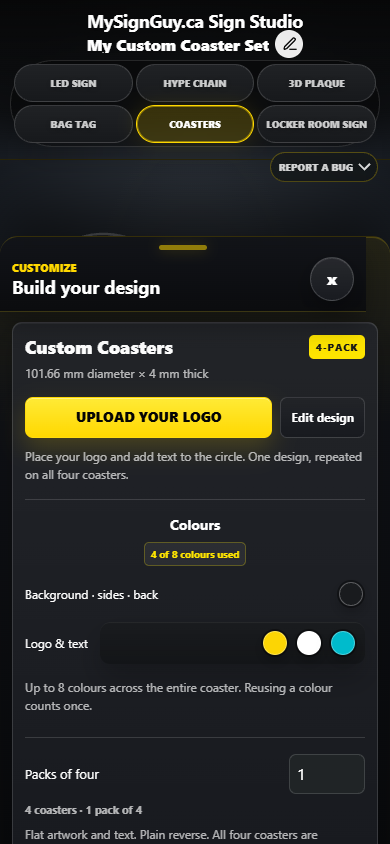
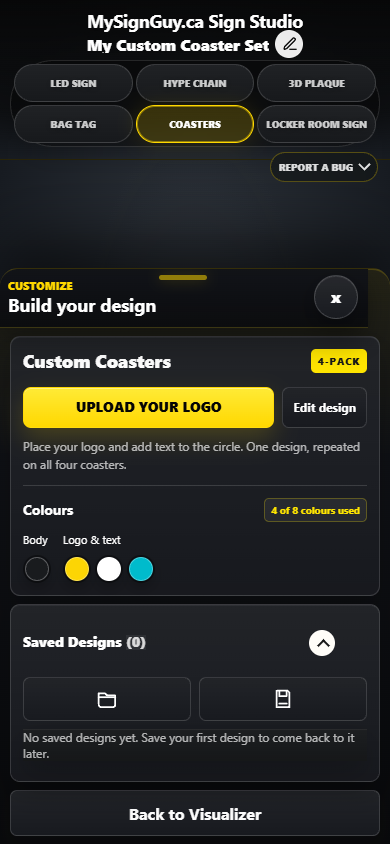
Connect coaster orders to Custom Drink Coaster product

diff --git a/app.js b/app.js
@@ -1473,7 +1473,7 @@ function applyPreviewEnvironment() {
 
 function updateProductCta() {
   if (!els.placeOrder) return;
-  els.placeOrder.textContent = state.orderInProgress ? (state.productType==='locker'?'Preparing...':'Placing Order...') : state.productType==='coaster'?'Download artwork':state.productType==='locker'?'Email design':state.productType==='bag'?bagOrderButtonLabel():'Place Order';
+  els.placeOrder.textContent = state.orderInProgress ? (state.productType==='locker'?'Preparing...':'Placing Order...') : state.productType==='coaster'?coasterOrderButtonLabel():state.productType==='locker'?'Email design':state.productType==='bag'?bagOrderButtonLabel():'Place Order';
   syncMobileCommandBar();
 }
 
@@ -1679,7 +1679,7 @@ function setupMobileAccordion(section, heading) {
 function syncMobileCommandBar() {
   if (els.mobilePlaceOrder && els.placeOrder) {
     els.mobilePlaceOrder.disabled = els.placeOrder.disabled;
-    els.mobilePlaceOrder.textContent = state.orderInProgress ? (state.productType==='locker'?'Preparing...':'Placing Order...') : state.productType==='coaster'?'Download artwork':state.productType==='locker'?'Email design':state.productType==='bag'?bagOrderButtonLabel():'Place Order';
+    els.mobilePlaceOrder.textContent = state.orderInProgress ? (state.productType==='locker'?'Preparing...':'Placing Order...') : state.productType==='coaster'?coasterOrderButtonLabel():state.productType==='locker'?'Email design':state.productType==='bag'?bagOrderButtonLabel():'Place Order';
   }
   if (els.mobileSaveProject && els.saveProject) {
     els.mobileSaveProject.disabled = els.saveProject.disabled;
@@ -1717,7 +1717,7 @@ function getMobileCheckoutSelectionLabel() {
 }
 
 function getMobilePlaceOrderDisabledReason() {
-  if(state.productType==='coaster')return coasterState().error || 'Upload and confirm your coaster design';
+  if(state.productType==='coaster')return coasterState().error||(!coasterReady()?'Upload and confirm your coaster design':!state.customerEmail?'Enter your email first':'');
   if (state.productType === 'locker') { return 'Email your finished design'; }
   if (state.productType === 'bag') {
     const b=bagState();
@@ -7605,7 +7605,7 @@ function svgPointArea(points) {
 }
 
 function updateProjectControls() {
-  if(state.productType==='coaster'){els.saveProject.disabled=!coasterReady();els.placeOrder.disabled=!coasterReady();els.placeOrder.textContent='Download artwork';syncMobileCommandBar();return;}
+  if(state.productType==='coaster'){els.saveProject.disabled=!coasterReady()||state.orderInProgress;els.placeOrder.disabled=!coasterReady()||!state.customerEmail||state.orderInProgress;els.placeOrder.textContent=coasterOrderButtonLabel();syncMobileCommandBar();return;}
   if (state.productType === 'locker') { els.saveProject.disabled = !lockerReady() || state.orderInProgress; els.placeOrder.disabled = !lockerReady() || state.orderInProgress; els.placeOrder.textContent = state.orderInProgress ? 'Preparing...' : 'Email design'; syncMobileCommandBar(); return; }
   if (state.productType === 'bag') { els.saveProject.disabled = !bagReady() || state.orderInProgress; els.placeOrder.disabled = !bagReady() || !state.customerEmail || state.orderInProgress; els.placeOrder.textContent = state.orderInProgress ? 'Preparing Order...' : bagOrderButtonLabel(); syncMobileCommandBar(); return; }
   if (!els.saveProject) return;
@@ -7754,7 +7754,7 @@ async function saveProjectFile() {
 }
 
 async function placeOrderRequest() {
-  if (state.productType === 'coaster') return exportCoasterArtwork();
+  if (state.productType === 'coaster') return orderCoasters();
   if (state.productType === 'locker') return emailLockerDesign();
   if (state.orderInProgress) return;
   if (state.productType === 'bag') return orderBagTag();
@@ -8297,6 +8297,7 @@ async function uploadProjectFolder(project, options = {}) {
     },
   ];
   if (project.type === 'SignGuy.LockerSignStudio') assets.push(...lockerOutputFiles(uploadProject));
+  if (project.type === 'SignGuy.CoasterStudio') assets.push(...coasterOutputFiles(uploadProject));
 
   if (options.sendOrderEmail) {
     const logoPreview = await makeEmailLogoPreviewFile(uploadProject);
@@ -8453,6 +8454,7 @@ function isLocalTesting() {
 }
 
 async function makeEmailLogoPreviewFile(project) {
+  if(project.type==='SignGuy.CoasterStudio')return dataUrlToFile(project.outputArtwork.pngDataUrl,'coaster-finished-circle-preview.png');
   if (project.type === 'SignGuy.LockerSignStudio') return dataUrlToFile(project.outputArtwork.pngDataUrl, 'locker-sign-finished-circle-preview.png');
   try {
     const dataUrl = ['SignGuy.HypeChainStudio', 'SignGuy.BagTagStudio'].includes(project.type)
@@ -8477,6 +8479,7 @@ async function makeEmailLogoPreviewFile(project) {
 
 async function makeProjectUploadLogoFile(project, options = {}) {
   const sourceDataUrl = project.source?.dataUrl || '';
+  if(project.type==='SignGuy.CoasterStudio')return dataUrlToFile(sourceDataUrl,project.source.fileName||'coaster-original.png');
   if (project.type === 'SignGuy.LockerSignStudio') return dataUrlToFile(sourceDataUrl, project.source.fileName || 'locker-sign-original.png');
   const sourceName = project.source?.fileName || (project.type === 'SignGuy.HypeChainStudio' ? 'hype-chain-logo.png' : `${baseName()}.png`);
   if (!options.compact) {
@@ -8489,7 +8492,7 @@ async function makeProjectUploadLogoFile(project, options = {}) {
 
 async function makeCompactOrderProject(project) {
   const compact = JSON.parse(JSON.stringify(project));
-  if (compact.source?.dataUrl && !['SignGuy.BagTagStudio','SignGuy.LockerSignStudio'].includes(compact.type)) {
+  if (compact.source?.dataUrl && !['SignGuy.BagTagStudio','SignGuy.LockerSignStudio','SignGuy.CoasterStudio'].includes(compact.type)) {
     const sourceName = compact.source.fileName || 'uploaded-logo.png';
     compact.source.dataUrl = await makeCompactLogoDataUrl(compact.source.dataUrl);
     compact.source.fileName = sourceName.replace(/\.(heic|heif|jpe?g|png)$/i, '.png') || 'uploaded-logo.png';
@@ -8584,29 +8587,41 @@ async function makeRasterLogoPreviewDataUrl(dataUrl) {
   return canvas.toDataURL('image/png');
 }
 
-function redirectToShopifyCheckout(project, uploadResult = {}) {
+function buildShopifyCheckoutUrl(project, uploadResult = {}) {
   const designId = String(uploadResult.designId || '');
   if (!/^[a-z0-9_-]{8,96}$/i.test(designId)) throw new Error('The design record was not confirmed. Please try placing your order again.');
   // Use the saved design, not mutable controls after the asynchronous upload.
   const hype = project.type === 'SignGuy.HypeChainStudio' ? project.config.hype : null;
-  const variantId = hype ? SHOPIFY_HYPE_CHAIN_VARIANTS[hype.variant] : getShopifyVariantId();
+  const coaster=project.type==='SignGuy.CoasterStudio'?project.config.coaster:null;
+  const variantId = coaster?COASTER_SHOPIFY_VARIANT_ID:hype ? SHOPIFY_HYPE_CHAIN_VARIANTS[hype.variant] : getShopifyVariantId();
+  if(coaster&&(!Number.isInteger(coaster.packs)||coaster.packs<1||coaster.packs>99))throw new Error('Invalid coaster pack quantity.');
   if (!variantId) throw new Error('No matching Shopify variant was found.');
   const projectName = `${projectFileBaseName(project)}.SignGuy`;
   const params = new URLSearchParams();
 
   params.set('id', variantId);
-  params.set('quantity', project.type === 'SignGuy.BagTagStudio' ? String(bagTotalQuantity(project.config.bag)) : '1');
+  params.set('quantity', coaster?String(coaster.packs):project.type === 'SignGuy.BagTagStudio' ? String(bagTotalQuantity(project.config.bag)) : '1');
   params.set('return_to', '/cart');
   setShopifyOrderField(params, '_Studio design ID', designId);
 
-  if (state.customerEmail) {
-    params.set('checkout[email]', state.customerEmail);
+  const customerEmail=coaster?project.customerEmail:state.customerEmail;
+  if (customerEmail) {
+    params.set('checkout[email]', customerEmail);
   }
 
-  setShopifyOrderField(params, project.type==='SignGuy.BagTagStudio'?'_Customer email':'Customer email', state.customerEmail || '');
+  setShopifyOrderField(params, project.type==='SignGuy.BagTagStudio'?'_Customer email':'Customer email', customerEmail || '');
   setShopifyOrderField(params, project.type==='SignGuy.BagTagStudio'?'Design':'Design name', project.name || getDesignName());
 
-  if (project.type === 'SignGuy.BagTagStudio') {
+  if (coaster) {
+    setShopifyOrderField(params,'Product','Custom Drink Coaster');
+    setShopifyOrderField(params,'Pack size','4 identical coasters');
+    setShopifyOrderField(params,'Coaster size','101.66 mm diameter × 4 mm');
+    setShopifyOrderField(params,'Construction','Flush artwork and text · plain reverse');
+    setShopifyOrderField(params,'Body colour',getOrderColourName(coaster.backing));
+    setShopifyOrderField(params,'_Coaster colours',JSON.stringify(uniqueHexColours([coaster.backing,...coaster.palette.map(p=>p.colour)])));
+    (coaster.wizardEdit?.textBoxes||[]).forEach((box,i)=>{setShopifyOrderField(params,`Text ${i+1}`,box.text);setShopifyOrderField(params,`_Text ${i+1} font`,box.font);});
+    if(uploadResult.previewUrl)setShopifyOrderField(params,'Design preview',uploadResult.previewUrl);
+  } else if (project.type === 'SignGuy.BagTagStudio') {
     const bag = project.config.bag;
     if(uploadResult.previewUrl)params.set('properties[Preview]',uploadResult.previewUrl);
     setShopifyOrderField(params, '_Product', 'Custom Team Bag Tag');
@@ -8656,13 +8671,18 @@ function redirectToShopifyCheckout(project, uploadResult = {}) {
   }
   setShopifyOrderField(params, project.type==='SignGuy.BagTagStudio'?'_SignGuy file':'SignGuy file', projectName);
 
+  return `${SHOPIFY_CHECKOUT_BASE_URL}/add?${params.toString()}`;
+}
+
+function redirectToShopifyCheckout(project, uploadResult = {}) {
+  const checkoutUrl=buildShopifyCheckoutUrl(project,uploadResult);
   trackSignStudioEvent('add_to_cart', {
     ecommerce: {
       currency: 'CAD',
       items: [getAnalyticsProductItem(project)],
     },
   });
-  navigateToCheckoutUrl(`${SHOPIFY_CHECKOUT_BASE_URL}/add?${params.toString()}`);
+  navigateToCheckoutUrl(checkoutUrl);
 }
 
 function setShopifyOrderField(params, label, value) {
@@ -8753,7 +8773,7 @@ function clearCheckoutFallback() {
 }
 
 function getShopifyVariantId() {
-  if (state.productType === 'coaster') return '';
+  if (state.productType === 'coaster') return COASTER_SHOPIFY_VARIANT_ID;
   if (state.productType === 'locker') return '';
   if (state.productType === 'bag') return window.SIGN_STUDIO_BAG_TAG_VARIANT_ID || BAG_TAG_VARIANTS[bagState().usage] || '';
   if (state.productType === 'hype') return SHOPIFY_HYPE_CHAIN_VARIANTS[state.hype.variant] || SHOPIFY_HYPE_CHAIN_VARIANTS.classic;

diff --git a/tests/coaster-orders.test.js b/tests/coaster-orders.test.js
@@ -1,0 +1,40 @@
+import test from 'node:test';
+import assert from 'node:assert/strict';
+import { readFileSync } from 'node:fs';
+import { saveDesignRecord, designPath } from '../src/design-records.js';
+import { validateCoasterProject } from '../src/coaster-project.js';
+import { createSaveHandler } from '../api/save-project.js';
+import { recordPaidOrder, jobPath } from '../src/order-notifications.js';
+import { makeOrderEmail, sendOrderMail } from '../src/order-email.js';
+const fixture=()=>JSON.parse(readFileSync(new URL('../verification/coaster-review.SignGuy',import.meta.url),'utf8'));
+const designId='coaster-order-12345678';
+const kinds=['projectFile','logo','finalArtworkPng','finalArtworkSvg','logoPreview','renderScreenshot1','renderScreenshot2','renderScreenshot3'];
+const files=()=>kinds.map(kind=>({kind,pathname:`orders/${designId}/${kind}-test`,url:`https://store.private.blob.vercel-storage.com/orders/${designId}/${kind}-test`,filename:kind==='finalArtworkSvg'?'coaster-finished-circle.svg':kind==='finalArtworkPng'?'coaster-finished-circle.png':`${kind}.bin`,contentType:kind==='finalArtworkSvg'?'image/svg+xml':'image/png',size:100}));
+const submission=()=>({orderId:designId,customerEmail:fixture().customerEmail,projectName:'coaster.SignGuy',sendOrderEmail:true,subject:'Coaster checkout started',message:'Custom coaster details',messageHtml:'<p>Original coaster submission</p>',files:files()});
+function store(){const data=new Map();return {data,async read(p){return data.has(p)?{value:data.get(p),etag:'1'}:null;},async create(p,v){if(data.has(p))throw Error('exists');data.set(p,structuredClone(v));}};}
+const response=()=>({setHeader(){},status(code){this.statusCode=code;return this;},json(body){this.body=body;}});
+test('coaster save persists the complete production file set, remains unpaid, and plain save queues no email',async()=>{
+ const storage=store(),project=fixture(),events=[],handler=createSaveHandler({previewToken:()=> 'preview-token',save:(input,options)=>saveDesignRecord(input,{...options,store:storage,readProject:async()=>project}),enqueue:async(record,event)=>events.push({record,event})});
+ const res=response();await handler({method:'POST',body:submission()},res);assert.equal(res.statusCode,200);assert.equal(res.body.designId,designId);assert.equal(res.body.emailSent,false);assert.equal(events[0].event.kind,'submitted');
+ const record=events[0].record;assert.equal(record.product,'Drink Coasters');assert.equal(record.submissionStatus,'checkout_pending');assert.equal(record.files.length,8);assert.deepEqual(record.settings,project.config);
+ const pending=makeOrderEmail(record,{kind:'submitted'},'a'.repeat(64));assert.match(pending.text,/Payment has not been confirmed/);assert.doesNotMatch(pending.subject,/Payment confirmed/);
+ const plain=response();await handler({method:'POST',body:{...submission(),orderId:'coaster-save-12345678',files:files().map(f=>({...f,pathname:f.pathname.replace(designId,'coaster-save-12345678'),url:f.url.replace(designId,'coaster-save-12345678')})),sendOrderEmail:false}},plain);assert.equal(plain.statusCode,200);assert.equal(plain.body.emailQueued,false);assert.equal(events.length,1);
+});
+test('coaster production validation rejects altered sizes, relief, extra colours, and missing finished files',async()=>{
+ const project=fixture();validateCoasterProject(project);
+ for(const change of [p=>p.config.dimensions.depthMm=5,p=>p.config.coaster.palette[0].height=2,p=>p.config.totalCoasters=5,p=>p.config.coaster.packs=0,p=>p.source.dataUrl='',p=>{p.config.coaster.palette=Array.from({length:8},(_,i)=>({colour:`#${(i*200000).toString(16).padStart(6,'0')}`,height:0}));p.config.coaster.backing=p.config.coaster.palette[0].colour;p.config.coaster.wizardEdit.textBoxes[0].colour='#abcdef';}]){const bad=structuredClone(project);change(bad);assert.throws(()=>validateCoasterProject(bad));}
+ await assert.rejects(saveDesignRecord({...submission(),files:files().filter(f=>f.kind!=='finalArtworkSvg')},{store:store(),readProject:async()=>project}),/Finished coaster/);
+});
+test('paid coaster briefs use actual paid packs, retain text and exact colours, and never call them signs',async()=>{
+ const storage=store(),record=await saveDesignRecord(submission(),{store:storage,readProject:async()=>fixture()}),jobs=[];
+ const order={id:12345,name:'#COASTER-TEST',financial_status:'paid',line_items:[{id:1,variant_id:63132097249420,quantity:2,title:'Custom Drink Coaster',properties:[{name:'_Studio design ID',value:designId}]}]};
+ await assert.rejects(recordPaidOrder({...order,financial_status:'pending'},'11a02c-d2.myshopify.com',{store:storage,publish:async()=>assert.fail('unpaid')}),/not paid/);
+ await recordPaidOrder(order,'11a02c-d2.myshopify.com',{store:storage,publish:async id=>jobs.push(id)});assert.equal(jobs.length,1);const event=storage.data.get(jobPath(jobs[0])).event,mail=makeOrderEmail(record,event,jobs[0]);
+ assert.match(mail.subject,/Payment confirmed/);assert.match(mail.text,/2 packs · 8 coasters/);assert.match(mail.text,/101.66 mm diameter × 4 mm/);assert.match(mail.text,/Text 1: CHAMPIONS\n2026/);assert.match(mail.text,/Text 1 font: Bebas Neue Bold/);assert.match(mail.html,/background-color:#00BBCC/);assert.match(mail.html,/coaster top/);assert.match(mail.html,/four-pack/);assert.match(mail.html,/holder view/);assert.match(mail.text,/finished circle SVG and PNG/);assert.doesNotMatch(mail.text,/2 signs|Shell colours|raised|roster/);
+ assert.equal(storage.data.get(designPath(designId)).submissionStatus,'checkout_pending');
+});
+test('paid coaster attachment delivery preserves the final SVG, PNG and original upload bytes',async()=>{
+ const project=fixture(),record=await saveDesignRecord(submission(),{store:store(),readProject:async()=>project}),contents=new Map(files().map(f=>[f.pathname,Buffer.from(f.kind==='finalArtworkSvg'?project.outputArtwork.svgText:f.kind==='logo'?'ORIGINAL SOURCE':'FINAL OR PREVIEW')]));let delivered;
+ await sendOrderMail(record,{kind:'paid',orderName:'#TEST',lineItems:[{quantity:1}]},'f'.repeat(64),{readBlob:async p=>({statusCode:200,stream:new Response(contents.get(p)).body,blob:{contentType:files().find(f=>f.pathname===p).contentType}}),makeTransport:()=>({async sendMail(message){delivered=message;for(const a of message.attachments){const chunks=[];for await(const chunk of a.content)chunks.push(chunk);a.bytes=Buffer.concat(chunks);}},close(){}})});
+ assert.equal(delivered.attachments.length,8);assert.equal(delivered.attachments.find(a=>a.filename==='coaster-finished-circle.svg').bytes.toString(),project.outputArtwork.svgText);assert.equal(delivered.attachments.find(a=>a.filename==='logo.bin').bytes.toString(),'ORIGINAL SOURCE');
+});

diff --git a/assets/coaster/coaster-product.js b/assets/coaster/coaster-product.js
@@ -2,6 +2,8 @@
 const COASTER_DIAMETER_MM = 101.66;
 const COASTER_DEPTH_MM = 4;
 const COASTER_PACK_SIZE = 4;
+const COASTER_PRODUCT_URL = 'https://mysignguy.ca/products/custom-drink-coaster';
+const COASTER_SHOPIFY_VARIANT_ID = '63132097249420';
 // Measured from the supplied, unscaled Coaster Holder.stl. STL Z is up.
 const COASTER_HOLDER = Object.freeze({widthMm:108,depthMm:30,heightMm:46,cradleCentreHeightMm:56,cradleRadiusMm:52.0085,pitchMm:5.5});
 const COASTER_SIGN_DEFAULTS = Object.freeze({backing:'#191b1e',font:'Bebas Neue Bold',packs:1});
@@ -123,7 +125,31 @@ function buildCoasterFinalArtwork(){
  const svgText=`<svg xmlns="http://www.w3.org/2000/svg" width="${diameter}mm" height="${diameter}mm" viewBox="0 0 ${n} ${n}"><defs><clipPath id="coaster"><circle cx="512" cy="512" r="512"/></clipPath></defs><g clip-path="url(#coaster)"><circle cx="512" cy="512" r="512" fill="${coasterState().backing}"/>${paths}</g></svg>`;
  return {pngDataUrl:canvas.toDataURL('image/png'),svgText,widthMm:diameter,heightMm:diameter,depthMm:4,raisedMm:0};
 }
-async function saveCoasterProject(){setStatus('Saving');try{const project=await buildCoasterProject();await saveProjectRecord(project);coasterState().projectId=project.id;downloadProjectPayload(project);await refreshProjectLog();els.projectNote.textContent=`${project.name} saved locally and downloaded as a .SignGuy file.`;setStatus('Saved');}catch(error){els.projectNote.textContent=error.message;setStatus('Save failed');}finally{updateProjectControls();}}
+async function saveCoasterProject(){setStatus('Saving');try{const project=await buildCoasterProject();if(!isLocalTesting())await uploadProjectFolder(project,{screenshots:await captureCoasterShots(),message:coasterOrderText(project)});await saveProjectRecord(project);coasterState().projectId=project.id;downloadProjectPayload(project);await refreshProjectLog();els.projectNote.textContent=`${project.name} saved ${isLocalTesting()?'locally':'to your project folder'} and downloaded as a .SignGuy file.`;setStatus('Saved');}catch(error){els.projectNote.textContent=error.message;setStatus('Save failed');}finally{updateProjectControls();}}
+function coasterOrderButtonLabel(){return state.orderInProgress?'Preparing Order...':'Place Order';}
+function coasterOutputFiles(project){const output=project.outputArtwork;if(!output?.pngDataUrl||!output?.svgText)throw new Error('The finished coaster artwork is missing.');return [{kind:'finalArtworkPng',file:dataUrlToFile(output.pngDataUrl,'coaster-finished-circle.png')},{kind:'finalArtworkSvg',file:new File([output.svgText],'coaster-finished-circle.svg',{type:'image/svg+xml'})}];}
+function coasterOrderText(project){
+ const c=project.config.coaster,text=(c.wizardEdit?.textBoxes||[]).map((box,i)=>`Text ${i+1}: ${box.text}\nFont: ${box.font}\nColour: ${box.colour}`).join('\n');
+ return `Custom Drink Coaster\nDesign: ${project.name}\nQuantity: ${c.packs} four-pack(s), ${c.packs*4} identical coasters\nDimensions: 101.66 mm diameter × 4 mm total thickness\nConstruction: flat face, flush artwork and text, plain reverse\nBody/background: ${c.backing}\nColours: ${uniqueHexColours([c.backing,...c.palette.map(p=>p.colour)]).join(', ')}${text?'\n'+text:''}`;
+}
+function coasterOrderHtml(project){const c=project.config.coaster;return makeOrderEmailHtml({title:'Custom Drink Coaster request',context:'Shopify checkout started · payment not yet confirmed',logoTitle:'Finished coaster artwork',details:[['Design',project.name],['Quantity',`${c.packs} four-pack(s) · ${c.packs*4} identical coasters`],['Dimensions','101.66 mm diameter × 4 mm'],['Construction','Flush artwork and text · plain reverse'],...(c.wizardEdit?.textBoxes||[]).flatMap((box,i)=>[[`Text ${i+1}`,box.text],[`Text ${i+1} font`,box.font]])],colourSections:[{title:'Body and background',colours:[{label:'Background, sides and back',hex:c.backing}]},{title:'Artwork and text',colours:c.palette.map((p,i)=>({label:`Colour ${i+1}`,hex:p.colour}))}]});}
+async function orderCoasters(){
+ if(!coasterReady()||!state.customerEmail||state.orderInProgress)return;
+ state.orderInProgress=true;updateProjectControls();els.submitNote.textContent='';
+ try{
+  const project=await buildCoasterProject();coasterState().projectId=project.id;
+  if(isLocalTesting()){
+   await saveProjectRecord(project);downloadProjectPayload(project);
+   const params=new URL(buildShopifyCheckoutUrl(project,{designId:`local-review-${project.id}`})).searchParams;
+   const review={localPreview:true,productUrl:COASTER_PRODUCT_URL,variantId:COASTER_SHOPIFY_VARIANT_ID,packs:project.config.coaster.packs,totalCoasters:project.config.totalCoasters,cartParameters:Object.fromEntries(params)};
+   downloadBlob(JSON.stringify(review,null,2),'coaster-checkout-review.json','application/json');await refreshProjectLog();
+   els.submitNote.textContent='Coaster order files downloaded for review. Local testing does not send email or open checkout.';setStatus('Order preview ready');
+  }else{
+   const result=await uploadProjectFolder(project,{screenshots:await captureCoasterShots(),sendOrderEmail:true,subject:makeOrderEmailSubject('Custom Drink Coaster'),message:coasterOrderText(project),messageHtml:coasterOrderHtml(project)});
+   await saveProjectRecord(project);redirectToShopifyCheckout(project,result);
+  }
+ }catch(error){els.submitNote.textContent=error.message;setStatus('Order not placed');}finally{state.orderInProgress=false;updateProjectControls();}
+}
 async function exportCoasterArtwork(){try{const project=await buildCoasterProject();downloadBlob(dataUrlToFile(project.outputArtwork.pngDataUrl,'coaster-finished-circle.png'),'coaster-finished-circle.png','image/png');downloadBlob(project.outputArtwork.svgText,'coaster-finished-circle.svg','image/svg+xml');els.submitNote.textContent='Finished coaster PNG and SVG downloaded. Four identical coasters per pack.';}catch(error){els.submitNote.textContent=error.message;}}
 async function restoreCoasterProject(project){
  const c=project.config?.coaster,d=project.config?.dimensions;if(!c||!project.source?.dataUrl||!c.preparedDataUrl||!Array.isArray(c.palette)||!c.palette.length||c.palette.length>8||d?.diameterMm!==101.66||d?.depthMm!==4||project.config.packSize!==4)throw new Error('Invalid coaster project. Expected a 101.66 mm × 4 mm coaster, in packs of four.');

diff --git a/src/order-email-layout.js b/src/order-email-layout.js
@@ -12,7 +12,7 @@ const colourNames = { '#000000': 'Black', '#020201': 'Black', '#FFFFFF': 'White'
 
 // A bounded, product-specific brief; the complete saved settings remain in .SignGuy.
 export function productionBrief(record, event) {
-  const config = record.settings || {}, preview = record.preview || {}, hype = config.hype || {}, bag = config.bag || {}, plaque = config.plaque || {}, locker = config.locker || {};
+  const config = record.settings || {}, preview = record.preview || {}, hype = config.hype || {}, bag = config.bag || {}, plaque = config.plaque || {}, locker = config.locker || {}, coaster=config.coaster||{}, isCoaster=record.product==='Drink Coasters';
   const details = [], colours = [], facts = [];
   const add = (label, value) => { if (value != null && value !== '' && typeof value !== 'object') details.push([label, String(value)]); };
   const colourGroup = (title, entries) => {
@@ -28,10 +28,19 @@ export function productionBrief(record, event) {
   const faceSize = unit(dimension.faceInches, 'in');
   const tagDimensions = [dimension.widthMm, dimension.heightMm, dimension.depthMm].filter(value => number(value) != null).map(number).join(' × ');
   const quantity = (event.lineItems || []).reduce((sum, line) => sum + Number(line.quantity || 0), 0);
-  const quantityLabel = `${quantity} ${record.product === 'Hype Chain' ? (quantity === 1 ? 'chain' : 'chains') : record.product === 'Bag Tag' ? (quantity === 1 ? 'tag' : 'tags') : record.product === '3D Plaque' ? (quantity === 1 ? 'plaque' : 'plaques') : (quantity === 1 ? 'sign' : 'signs')}`;
+  const quantityLabel = isCoaster?`${quantity} ${quantity===1?'pack':'packs'} · ${quantity*4} coasters`:`${quantity} ${record.product === 'Hype Chain' ? (quantity === 1 ? 'chain' : 'chains') : record.product === 'Bag Tag' ? (quantity === 1 ? 'tag' : 'tags') : record.product === '3D Plaque' ? (quantity === 1 ? 'plaque' : 'plaques') : (quantity === 1 ? 'sign' : 'signs')}`;
   facts.push([['admin_design', 'locker_design'].includes(event.kind) ? 'Quantity' : 'Quantity ordered', quantityLabel]);
   let productTitle = record.product;
-  if (record.product === 'Hype Chain') {
+  if(isCoaster){
+    productTitle='Custom Drink Coaster · Four-Pack';
+    facts.push(['Coaster size','101.66 mm diameter × 4 mm']);
+    add('Pack contents','4 identical coasters per pack');
+    add('Construction','Flat face · flush artwork and text · plain reverse');
+    (coaster.wizardEdit?.textBoxes||[]).forEach((box,i)=>{add(`Text ${i+1}`,box.text);add(`Text ${i+1} font`,box.font);add(`Text ${i+1} box`,`${number(box.width*101.66)} × ${number(box.height*101.66)} mm`);});
+    colourGroup('Body and background',[{label:'Background, sides and back',value:coaster.backing}]);
+    colourGroup('Coaster artwork colours',(coaster.palette||[]).map((p,i)=>({label:`Colour ${i+1} · flat`,value:p.colour})));
+    colourGroup('Added text colours',(coaster.wizardEdit?.textBoxes||[]).map((box,i)=>({label:`Text ${i+1}`,value:box.colour})));
+  }else if (record.product === 'Hype Chain') {
     const style = hype.variant === 'spinner' ? 'Spinner' : 'Classic';
     productTitle = `${style} Hype Chain`;
     const length = [display(hype.chainLength), unit(hype.linkCount, 'links')].filter(Boolean).join(' · ');
@@ -98,12 +107,12 @@ export function productionBrief(record, event) {
   const warning = roster.length && rosterQuantity !== quantity ? `CHECK QUANTITIES: the saved roster totals ${rosterQuantity}; Shopify ordered ${quantity}. Confirm the roster before production.` : null;
   const files = record.files || [];
   const screenshots = files.filter(file => /^renderScreenshot\d+$/.test(file.kind)).sort((a, b) => Number(a.kind.slice(16)) - Number(b.kind.slice(16)));
-  const previews = screenshots.slice(0, record.product === 'Bag Tag' ? 4 : 2).map((file, i) => ({
+  const previews = screenshots.slice(0, record.product === 'Bag Tag' ? 4 : isCoaster?3:2).map((file, i) => ({
     cid: `bag-tag-${file.kind.slice(16)}`,
-    label: record.product === 'Bag Tag' ? `Tag ${Number(file.kind.slice(16))}${roster[Number(file.kind.slice(16)) - 1]?.name ? ` · ${roster[Number(file.kind.slice(16)) - 1].name}` : ''}` : record.product === 'Locker Room Sign' ? i === 0 ? 'Saved design · assembly' : 'Saved design · circle front' : i === 0 ? 'Saved design · front' : record.product === 'Hype Chain' ? 'Saved design · chain view' : 'Saved design · angled',
+    label: isCoaster?['Saved design · coaster top','Saved design · four-pack','Saved design · holder view'][Number(file.kind.slice(16))-1]||'Saved coaster design':record.product === 'Bag Tag' ? `Tag ${Number(file.kind.slice(16))}${roster[Number(file.kind.slice(16)) - 1]?.name ? ` · ${roster[Number(file.kind.slice(16)) - 1].name}` : ''}` : record.product === 'Locker Room Sign' ? i === 0 ? 'Saved design · assembly' : 'Saved design · circle front' : i === 0 ? 'Saved design · front' : record.product === 'Hype Chain' ? 'Saved design · chain view' : 'Saved design · angled',
   }));
   if (!previews.length && files.some(file => file.kind === 'logoPreview' || file.kind === 'logo')) previews.push({ cid: 'uploaded-logo', label: 'Uploaded artwork · design preview unavailable' });
-  else if (record.product === 'Locker Room Sign' && files.some(file => file.kind === 'logoPreview')) previews.push({ cid: 'uploaded-logo', label: 'Finished circle artwork · logo and added text' });
+  else if ((isCoaster||record.product === 'Locker Room Sign') && files.some(file => file.kind === 'logoPreview')) previews.push({ cid: 'uploaded-logo', label: 'Finished circle artwork · logo and added text' });
   const shop = String(event.shop || '');
   const orderUrl = /^[a-z0-9][a-z0-9-]*\.myshopify\.com$/i.test(shop) && /^\d+$/.test(String(event.orderId || ''))
     ? `https://admin.shopify.com/store/${shop.split('.')[0]}/orders/${event.orderId}` : null;

diff --git a/src/design-records.js b/src/design-records.js
@@ -1,6 +1,7 @@
 import { createHash } from 'node:crypto';
 import { get } from '@vercel/blob';
 import { createOnce, studioStore } from './studio-storage.js';
+import { validateCoasterProject } from './coaster-project.js';
 
 const PRODUCTS = {
   'SignGuy.LightboxStudio': 'LED Sign',
@@ -8,6 +9,7 @@ const PRODUCTS = {
   'SignGuy.HypeChainStudio': 'Hype Chain',
   'SignGuy.BagTagStudio': 'Bag Tag',
   'SignGuy.LockerSignStudio': 'Locker Room Sign',
+  'SignGuy.CoasterStudio': 'Drink Coasters',
 };
 export const validDesignId = id => typeof id === 'string' && /^[a-z0-9_-]{8,96}$/i.test(id);
 export function designPath(id) {
@@ -30,6 +32,10 @@ export async function saveDesignRecord(submission, {
   if (product === 'Locker Room Sign') {
     if (submission.adminDesignPreview && !adminAuthorized) throw Object.assign(new Error('Admin login is required for admin design previews.'), { statusCode: 403 });
     if (!project.outputArtwork?.pngDataUrl || !project.outputArtwork?.svgText || !['finalArtworkPng','finalArtworkSvg'].every(kind => submission.files.some(file => file.kind === kind))) throw new Error('Finished circle PNG and SVG are required');
+  }
+  if(product==='Drink Coasters'){
+    validateCoasterProject(project);
+    if(!['finalArtworkPng','finalArtworkSvg'].every(kind=>submission.files.some(file=>file.kind===kind)))throw new Error('Finished coaster PNG and SVG are required');
   }
   if (String(project.customerEmail || '').trim().toLowerCase() !== submission.customerEmail) {
     throw new Error('Project customer does not match the submission');

diff --git a/src/coaster-project.js b/src/coaster-project.js
@@ -1,0 +1,12 @@
+// Fixed production specification for the Custom Drink Coaster four-pack.
+export function validateCoasterProject(project) {
+  const config=project.config,c=config?.coaster,d=config?.dimensions;
+  const hex=value=>typeof value==='string'&&/^#[0-9a-f]{6}$/i.test(value);
+  if(!c||!d||d.diameterMm!==101.66||d.widthMm!==101.66||d.heightMm!==101.66||d.depthMm!==4||config.packSize!==4||config.construction!=='single-sided-flush')throw new Error('Invalid coaster dimensions or construction');
+  if(!Number.isSafeInteger(c.packs)||c.packs<1||c.packs>99||config.totalCoasters!==c.packs*4)throw new Error('Invalid coaster pack quantity');
+  if(!project.source?.dataUrl||!c.preparedDataUrl||!hex(c.backing)||!Array.isArray(c.palette)||!c.palette.length||c.palette.length>8||c.palette.some(p=>!hex(p.colour)||p.height!==0))throw new Error('Invalid coaster artwork or colours');
+  const text=c.wizardEdit?.textBoxes||[];
+  if(!Array.isArray(text)||text.some(box=>!hex(box.colour)))throw new Error('Invalid coaster text colours');
+  if(new Set([c.backing,...c.palette.map(p=>p.colour),...text.map(box=>box.colour)].map(value=>value.toLowerCase())).size>8)throw new Error('Coasters are limited to eight total colours');
+  if(!project.outputArtwork?.pngDataUrl||!project.outputArtwork?.svgText||project.outputArtwork.widthMm!==101.66||project.outputArtwork.heightMm!==101.66||project.outputArtwork.depthMm!==4)throw new Error('Finished coaster artwork is required');
+}

diff --git a/COASTER-LOCAL-REVIEW.md b/COASTER-LOCAL-REVIEW.md
@@ -17,7 +17,7 @@ This is a separate checkout on `codex/coaster-designer`, based on published base
 3. Review the colour conversion, adjust mapping, and confirm.
 4. Use the standard colour swatches and Top / 4-pack / Holder views. The four-pack view shows three coasters stacked flat with a fourth leaning against the stack. Holder shows four upright coasters nested in the supplied holder STL. All four remain the same physical size.
 5. Save a `.SignGuy` project, reopen it through the folder button or saved-design card, and use Edit design to continue editing.
-6. Download artwork to obtain the finished circle as PNG and SVG.
+6. Use Place Order. Locally this downloads the editable design and a checkout-review JSON file, without sending email or opening checkout. Finished PNG/SVG artwork remains included in the editable file.
 
 For a prepared example, open `verification/coaster-review.SignGuy` through the folder button.
 
@@ -35,13 +35,20 @@ For a prepared example, open `verification/coaster-review.SignGuy` through the f
 - `node verification/check-coaster-limits.cjs`: eight-colour limit with background and text included, background replacement at the limit, invalid-size rejection, PNG/SVG download, and export comparison. All 810,693 interior pixels match between PNG and rendered SVG. Zero failed network responses or browser errors.
 - `node verification/check-coaster-pack.cjs`: three horizontal bodies at 0–4, 4–8, and 8–12 mm, one leaning body with its bottom at the same floor level, unchanged local body dimensions, identical artwork, and unclipped framing at 1440 / 1024 / 768 / 390 / 320 px. Top view resets correctly and screenshot capture restores the selected view.
 - `node verification/check-coaster-holder.cjs`: the bundled STL hash matches the supplied original; its 3,106 triangles are preserved at 1:1 scale. Four unchanged 101.66 × 4 mm bodies share the design texture, sit upright in the cradle, and have 1.5 mm gaps between them and about 0.7585 mm clearance at each end of the holder's cavity. Holder visibility, save/reopen, three screenshot views, framing, and separate camera/zoom buttons pass on five desktop/mobile sizes, with no browser errors or failed requests. The circular cradle measures about 104.017 mm across. These measurements establish preview placement, not physical print fit.
-- `node --test tests/*.test.js`: all 32 existing tests pass.
+- `node verification/check-coaster-checkout.cjs`: correct live product variant, saved-design metadata despite switched controls, original upload preservation, finished PNG/SVG and three screenshot descriptors, plain-save versus order email flags, upload failure blocking, and desktop/mobile Place Order buttons. Cloud requests and navigation are simulated; no live cart, email or paid order is created.
+- `node --test tests/*.test.js`: all 36 tests pass, including coaster record validation, unpaid submission handling, actual paid pack quantities, and exact production attachments through a mocked mail transport.
 - Four-pack geometry measured 101.660003662 mm × 101.660003662 mm × 4.000000000 mm per body (normal floating-point vertex precision).
 - Screenshots and machine-readable results are in `verification/coaster-*`.
 
 ## Publication boundary
 
-This implements the local designer and review exports. Coaster checkout, pricing, cloud upload, paid-order metadata, and production email integration are not connected. The action button downloads artwork. Local analytics are disabled. No live site, Shopify product, or deployment was changed.
+The local code is connected to the existing Shopify product `https://mysignguy.ca/products/custom-drink-coaster`, variant `63132097249420` (SKU `MSG-COA-CUSTOM`). On October 17, 2026 Shopify confirmed it is active and available for sale at $30 CAD per four-pack, with inventory untracked. No product settings or pricing were changed.
+
+On a deployed host, Place Order uploads and confirms the saved design, original logo, finished circle PNG/SVG, artwork preview and Top / 4-pack / Holder renders before opening the native Shopify cart. Cart quantity is the number of four-packs. Metadata stays on the specific cart item and includes the Studio design ID, pack size, dimensions, construction, colours, text and fonts, preview link, and editable file name. Production email uses Shopify's actual paid quantity and calculates total coasters as paid packs × four. Unpaid submissions remain labelled unpaid; plain saves queue no email.
+
+Local Place Order is a dry run and downloads review files. Cloud upload, mail delivery, and cart navigation were verified with local test doubles; the paid webhook path was verified with mocked storage and mail. No live site or deployment was changed. A live cart/checkout and real paid-email delivery remain to be verified after publication is approved. Local analytics remain disabled.
+
+Checkout uses the existing [Shopify Cart API](https://shopify.dev/docs/api/ajax/reference/cart) integration and line-item properties.
 
 The SVG contains flat, solid-colour artwork paths at the requested physical dimensions. Editable logo placement and text live in the `.SignGuy` file. The 3D view demonstrates the coaster body and flush face; it is not a production multicolour 3MF export or a physical print validation.
 
